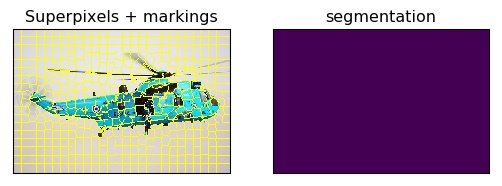
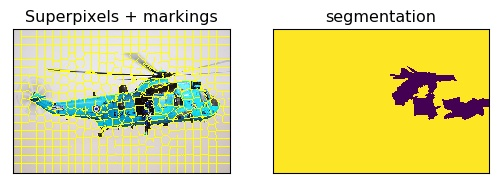
Refactoring and changed center mean to median

diff --git a/algorithms/algorithms.py b/algorithms/algorithms.py
@@ -63,7 +63,7 @@ class Algorithms:
                 # Retrieve indices of segment i
                 indices = np.where(self.imgs_segmentation[img] == i)
                 # Center is mean of indices
-                self.imgs_segment_centers[img].append((np.mean(indices[0]), np.mean(indices[1])))
+                self.imgs_segment_centers[img].append((np.median(indices[0]), np.median(indices[1])))
 
     # sets the foreground of the image at image_path to segments
     def set_fg_segments(self, image_path, segments):
@@ -156,7 +156,7 @@ class Algorithms:
         # TODO
         print('Not yet implemented')
 
-    def perform_graph_cut(self, pairwise_term_scale=10.0, scale_parameter=1.0):
+    def perform_graph_cut(self, pairwise_term_scale=-np.infty, scale_parameter=1.0):
         # perform graph-cut for every image
         for img in self.images:
             # Create a graph of N nodes with an estimate of 5 edges per node
@@ -169,7 +169,11 @@ class Algorithms:
             # Initialize uncertainties array
             self.imgs_uncertainties_graph_cut[img] = np.zeros(len(self.imgs_segment_ids[img]))
 
-            max_energy = -np.infty
+            # If no scale is given initialize it as -infinity and set it to the largest unary term energy
+            if pairwise_term_scale == -np.infty:
+                compute_scale = True
+            else:
+                compute_scale = False
 
             # Initialize match terms: energy of assigning node to foreground or background
             for i, fv in enumerate(self.imgs_segment_feature_vectors[img]):
@@ -177,13 +181,14 @@ class Algorithms:
                 energy_fg = self.gmm_fg.score_samples([fv])[0]
                 energy_bg = self.gmm_bg.score_samples([fv])[0]
                 graph.add_tedge(nodes[i], energy_fg, energy_bg)
-                if max_energy < abs(energy_fg):
-                    max_energy = abs(energy_fg)
-                if max_energy < abs(energy_bg):
-                    max_energy = abs(energy_bg)
+                # Initialize this superpixels graph cut uncertainty as the difference in fg and bg energy
                 self.imgs_uncertainties_graph_cut[img][i] = abs(energy_fg - energy_bg)
-
-            pairwise_term_scale = max_energy
+                # Set pairwise_term_scale to largest energy
+                if compute_scale:
+                    if pairwise_term_scale < abs(energy_fg):
+                        pairwise_term_scale = abs(energy_fg)
+                    if pairwise_term_scale < abs(energy_bg):
+                        pairwise_term_scale = abs(energy_bg)
 
             # Initialize smoothness terms: energy between neighbors
             for id in self.imgs_segment_ids[img]:  # Loop over every segment
@@ -191,9 +196,9 @@ class Algorithms:
                 for n in self.imgs_segment_neighbors[img][id]:  # For every neighbor of the segment
                     # Create two edges between segment and its neighbor with cost based on histogram matching
                     fv_neighbor = self.imgs_segment_feature_vectors[img][n]  # feature vector of segment's neighbor
-                    energy_forward = np.e ** (- scale_parameter * abs(cv2.compareHist(fv, fv_neighbor, cv2.HISTCMP_KL_DIV)))
-                    energy_backward = np.e ** (- scale_parameter * abs(cv2.compareHist(fv_neighbor, fv, cv2.HISTCMP_KL_DIV)))
-                    graph.add_edge(nodes[id], nodes[n], pairwise_term_scale * energy_forward, pairwise_term_scale * energy_backward)
+                    energy_forward = pairwise_term_scale * (np.e ** (- scale_parameter * abs(cv2.compareHist(fv, fv_neighbor, cv2.HISTCMP_KL_DIV))))
+                    energy_backward = pairwise_term_scale * (np.e ** (- scale_parameter * abs(cv2.compareHist(fv_neighbor, fv, cv2.HISTCMP_KL_DIV))))
+                    graph.add_edge(nodes[id], nodes[n], energy_forward, energy_backward)
 
             graph.maxflow()
 
@@ -254,7 +259,7 @@ if __name__ == '__main__':
     # alg.save_segmented_images('output/superpixel')
 
     # Extract features
-    alg.compute_feature_vectors(mode='color', bins_h=5, bins_s=3, kp_size=32.0)
+    alg.compute_feature_vectors(mode='sift', bins_h=5, bins_s=3, kp_size=32.0)
 
     # Retrieve foreground and background segments from marking images in markings folder
     # marking images should be white with red pixels indicating foreground and blue pixels indicating background and
